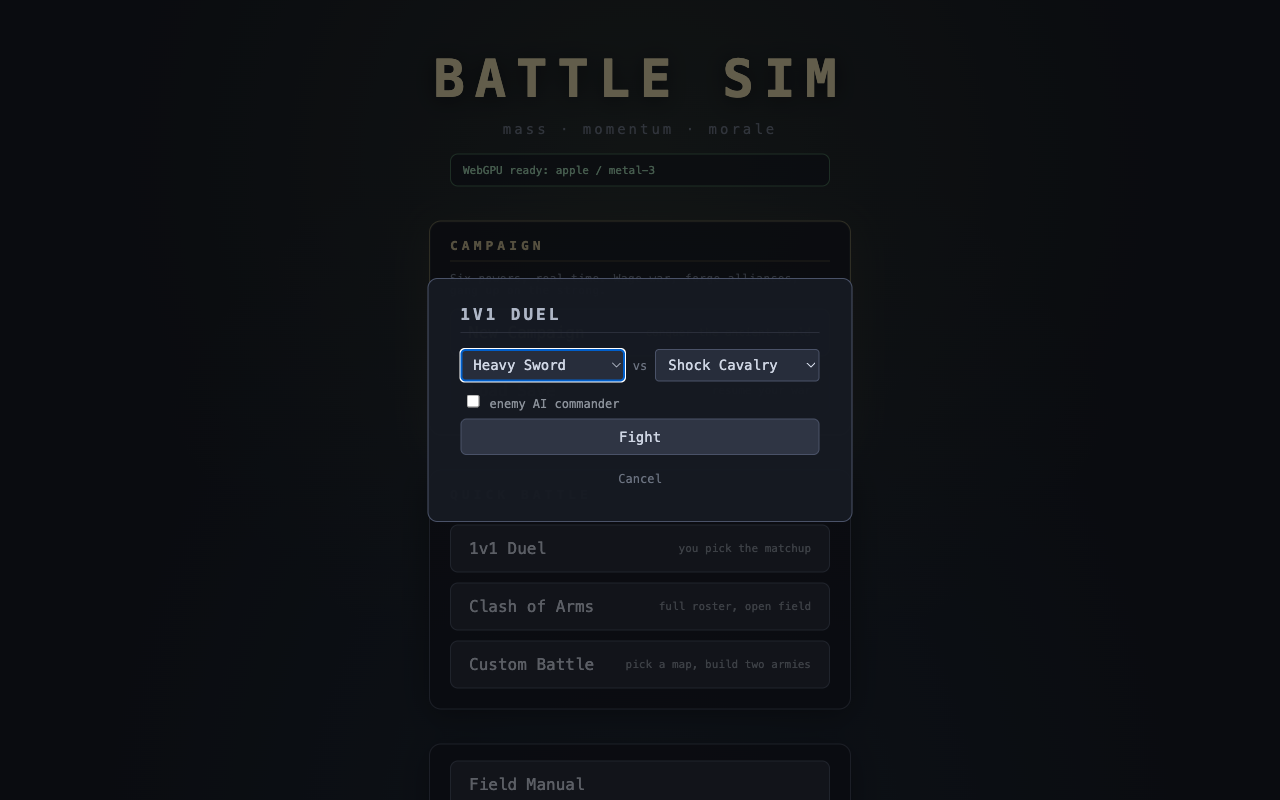
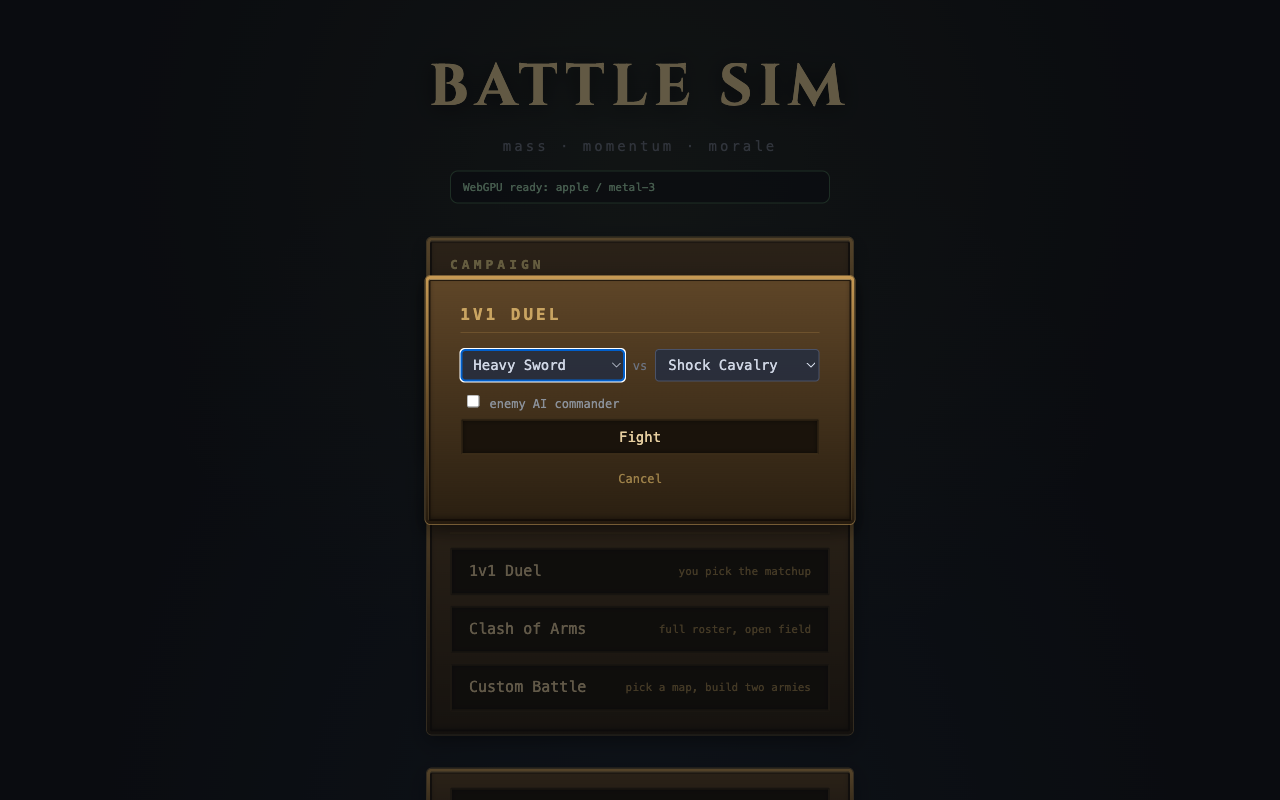
battle-ui: bronze the menu + modals (Cinzel title, bronze panels/buttons)
Rewrite the main menu and the dialog surfaces to the grand-strategy bronze look:
- #menu-ui: Cinzel engraved 'BATTLE SIM' title, bronze chassis panels, bronze
  well-buttons, brass section headers (no more slate rounded web cards / hover-lift).
- gameover / pausemenu / duel-modal / quick-battle-modal panels + buttons onto the
  shared bronze tokens.
Re-blessed menu-renderer-{ready,unsupported,duel-modal}. battle-ui S4 done; S5
(gameover/pause done, field manual + banner remain). Minor: native <select> focus
ring, the GPU-unavailable notice.

diff --git a/web/index.html b/web/index.html
@@ -241,8 +241,8 @@
       color: #c8cdd8; font: 14px ui-monospace, Menlo, monospace;
     }
     #menu-ui h1 {
-      margin: 0; font: bold 52px ui-monospace, Menlo, monospace; letter-spacing: 10px;
-      color: #e8d9a8; text-shadow: 0 3px 22px rgba(0,0,0,0.9);
+      margin: 0; font: 700 58px 'Cinzel', ui-serif, Georgia, serif; letter-spacing: 7px;
+      color: #e8cf96; text-shadow: 0 3px 22px rgba(0,0,0,0.9);
       animation: title-glow 5s ease-in-out infinite;
     }
     @keyframes title-glow {
@@ -260,32 +260,27 @@
     #menu-ui #menu-renderer-status.bad { border-color: #714447; color: #e2a4a0; }
     #menu-ui .menu-section {
       display: flex; flex-direction: column; gap: 10px; width: min(380px, 84vw);
-      background: rgba(12,14,19,0.82); border: 1px solid #3a3f4d; border-radius: 12px;
-      padding: 16px 20px 20px; box-shadow: 0 8px 30px rgba(0,0,0,0.55);
+      padding: 16px 20px 20px; border: 3px solid transparent; border-radius: 5px;
+      background: var(--bronze-fill) padding-box, var(--bronze-edge) border-box;
+      box-shadow: var(--bronze-frame);
     }
-    /* The campaign is the marquee mode — give it a warm accent. */
-    #menu-ui .menu-section.feature {
-      border-color: #6a6446;
-      box-shadow: 0 8px 34px rgba(60,52,28,0.4), inset 0 0 0 1px rgba(232,217,168,0.05);
-    }
-    #menu-ui .menu-section.feature h2 { color: #c9b88a; border-bottom-color: #45402c; }
-    #menu-ui .section-hint { margin: -4px 0 2px; color: #6b7280; font-size: 11px; letter-spacing: 0.5px; }
+    /* The campaign is the marquee mode — give it a brighter brass edge. */
+    #menu-ui .menu-section.feature { box-shadow: var(--bronze-frame), 0 0 0 1px rgba(232,200,120,0.3); }
+    #menu-ui .menu-section.feature h2 { color: #f0d98a; }
+    #menu-ui .section-hint { margin: -4px 0 2px; color: #9c8048; font-size: 11px; letter-spacing: 0.5px; }
     #menu-ui h2 {
       margin: 0 0 4px; font-size: 13px; letter-spacing: 4px; text-transform: uppercase;
-      color: #8a9099; border-bottom: 1px solid #2a2e3a; padding-bottom: 8px;
+      color: #c9a461; border-bottom: 1px solid rgba(150,114,62,0.4); padding-bottom: 8px;
     }
     #menu-ui button {
-      font: 16px ui-monospace, Menlo, monospace; color: #d8dde8; text-align: left;
-      background: rgba(34,38,48,0.9); border: 1px solid #444a5a;
-      border-radius: 8px; padding: 13px 18px; cursor: pointer;
-      transition: background 0.13s ease, border-color 0.13s ease, transform 0.08s ease;
+      font: 15px ui-monospace, Menlo, monospace; color: var(--bronze-ink); text-align: left;
+      background: var(--well-bg); border: 1px solid #3a2c18; border-radius: 2px;
+      padding: 13px 18px; cursor: pointer; box-shadow: var(--well-shadow);
+      transition: box-shadow 0.12s ease, color 0.12s ease;
     }
-    #menu-ui button:hover:not(:disabled) {
-      background: rgba(64,72,92,0.95); border-color: #6f7a96; transform: translateY(-1px);
-    }
-    #menu-ui button:active:not(:disabled) { transform: translateY(0); }
+    #menu-ui button:hover:not(:disabled) { color: var(--bronze-ink-bright); box-shadow: var(--well-hover); }
     #menu-ui button:disabled { opacity: 0.4; cursor: default; }
-    #menu-ui button small { color: #8a9099; float: right; font-size: 11px; line-height: 20px; }
+    #menu-ui button small { color: #9c8048; float: right; font-size: 11px; line-height: 20px; }
     #menu-ui .duel-row { display: flex; gap: 8px; align-items: center; margin-bottom: 8px; }
     #menu-ui .duel-vs { color: #6b7280; font-size: 12px; }
     #menu-ui select {
@@ -305,28 +300,30 @@
     #gameover p { margin: 0 0 18px; color: #8a9099; font-size: 13px; }
     #gameover button {
       display: block; width: 100%; margin: 6px 0; padding: 9px 14px; cursor: pointer;
-      background: rgba(48,54,70,0.95); color: #cfd6e4; border: 1px solid #4a5268;
-      border-radius: 6px; font: inherit;
+      background: var(--well-bg); color: var(--bronze-ink); border: 1px solid #3a2c18;
+      border-radius: 2px; font: inherit; box-shadow: var(--well-shadow);
     }
-    #gameover button:hover { background: rgba(64,72,92,0.95); border-color: #6f7a96; }
-    #gameover .watch { background: none; border: none; color: #6b7280; font-size: 12px; margin-top: 10px; }
+    #gameover button:hover { color: var(--bronze-ink-bright); box-shadow: var(--well-hover); }
+    #gameover .watch { background: none; border: none; box-shadow: none; color: #9c8048; font-size: 12px; margin-top: 10px; }
     #duel-modal, #pausemenu {
       display: none; position: fixed; inset: 0; z-index: 40;
       background: rgba(8,10,14,0.6); align-items: center; justify-content: center;
       font: 14px ui-monospace, Menlo, monospace;
     }
     #duel-modal .panel, #pausemenu .panel {
-      background: rgba(22,26,34,0.97); border: 1px solid #4a5268; border-radius: 10px;
-      padding: 26px 32px; min-width: 320px; color: #c8cdd8;
+      padding: 26px 32px; min-width: 320px; color: #ecd9b0;
+      border: 3px solid transparent; border-radius: 5px;
+      background: var(--bronze-fill) padding-box, var(--bronze-edge) border-box;
+      box-shadow: var(--bronze-frame);
     }
-    #duel-modal h2, #pausemenu h2 { margin: 0 0 16px; font-size: 16px; letter-spacing: 3px; color: #aeb6c6; }
+    #duel-modal h2, #pausemenu h2 { margin: 0 0 16px; font-size: 16px; letter-spacing: 3px; color: #c9a461; }
     #duel-modal button, #pausemenu button {
       display: block; width: 100%; margin: 8px 0 0; padding: 9px 14px; cursor: pointer;
-      background: rgba(48,54,70,0.95); color: #cfd6e4; border: 1px solid #4a5268;
-      border-radius: 6px; font: inherit; text-align: center;
+      background: var(--well-bg); color: var(--bronze-ink); border: 1px solid #3a2c18;
+      border-radius: 2px; font: inherit; text-align: center; box-shadow: var(--well-shadow);
     }
-    #duel-modal button:hover, #pausemenu button:hover { background: rgba(64,72,92,0.95); border-color: #6f7a96; }
-    #duel-modal .cancel, #pausemenu .watch { background: none; border: none; color: #6b7280; font-size: 12px; }
+    #duel-modal button:hover, #pausemenu button:hover { color: var(--bronze-ink-bright); box-shadow: var(--well-hover); }
+    #duel-modal .cancel, #pausemenu .watch { background: none; border: none; box-shadow: none; color: #9c8048; font-size: 12px; }
     #duel-modal .duel-row { display: flex; gap: 8px; align-items: center; margin-bottom: 10px; }
     #duel-modal .duel-vs { color: #6b7280; font-size: 12px; }
     #duel-modal select {
@@ -341,26 +338,28 @@
     }
     #quick-battle-modal.open { display: flex; }
     .quick-battle-panel {
-      background: rgba(22,26,34,0.97); border: 1px solid #4a5268; border-radius: 10px;
-      padding: 22px 26px; color: #c8cdd8; width: min(900px, 94vw); max-height: 90vh; overflow: auto;
+      padding: 22px 26px; color: #ecd9b0; width: min(900px, 94vw); max-height: 90vh; overflow: auto;
+      border: 3px solid transparent; border-radius: 5px;
+      background: var(--bronze-fill) padding-box, var(--bronze-edge) border-box;
+      box-shadow: var(--bronze-frame);
     }
-    .quick-battle-panel h2 { margin: 0 0 14px; font-size: 16px; letter-spacing: 3px; color: #aeb6c6; }
+    .quick-battle-panel h2 { margin: 0 0 14px; font-size: 16px; letter-spacing: 3px; color: #c9a461; }
     .qb-maps { display: flex; gap: 8px; margin-bottom: 14px; }
-    .qb-map { flex: 1; text-align: left; padding: 8px 10px; background: rgba(48,54,70,0.9); border: 1px solid #4a5268; border-radius: 6px; color: #cfd6e4; cursor: pointer; font: inherit; }
-    .qb-map.selected { border-color: #c8a24a; background: rgba(70,62,40,0.9); }
+    .qb-map { flex: 1; text-align: left; padding: 8px 10px; background: var(--well-bg); border: 1px solid #3a2c18; border-radius: 2px; color: var(--bronze-ink); cursor: pointer; font: inherit; box-shadow: var(--well-shadow); }
+    .qb-map.selected { border-color: #f0d98a; box-shadow: inset 0 0 0 1px #f0d98a, 0 0 7px rgba(240,212,122,0.5); }
     .qb-map strong { display: block; }
-    .qb-map small { color: #8a9099; font-size: 11px; }
+    .qb-map small { color: #9c8048; font-size: 11px; }
     .qb-armies { display: flex; gap: 16px; }
     .qb-army { flex: 1; min-width: 0; }
-    .qb-army h3 { margin: 0 0 8px; font-size: 13px; color: #aeb6c6; }
+    .qb-army h3 { margin: 0 0 8px; font-size: 13px; color: #c9a461; }
     .qb-templates { display: flex; flex-wrap: wrap; gap: 4px; margin-bottom: 8px; }
-    .qb-template { padding: 4px 8px; background: rgba(48,54,70,0.9); border: 1px solid #4a5268; border-radius: 4px; color: #cfd6e4; cursor: pointer; font: inherit; font-size: 11px; }
+    .qb-template { padding: 4px 8px; background: var(--well-bg); border: 1px solid #3a2c18; border-radius: 2px; color: var(--bronze-ink); cursor: pointer; font: inherit; font-size: 11px; box-shadow: var(--well-shadow); }
     .qb-rows { max-height: 40vh; overflow: auto; }
     .qb-row { display: grid; grid-template-columns: 1fr auto auto auto; gap: 6px; align-items: center; padding: 2px 0; }
     .qb-label { font-size: 12px; }
-    .qb-step { width: 24px; padding: 2px 0; background: rgba(48,54,70,0.9); border: 1px solid #4a5268; border-radius: 4px; color: #cfd6e4; cursor: pointer; }
+    .qb-step { width: 24px; padding: 2px 0; background: var(--well-bg); border: 1px solid #3a2c18; border-radius: 2px; color: var(--bronze-ink); cursor: pointer; box-shadow: var(--well-shadow); }
     .qb-count { min-width: 18px; text-align: center; }
-    .qb-footer { margin-top: 8px; padding-top: 6px; border-top: 1px solid #3a4252; font-size: 12px; color: #9aa0aa; }
+    .qb-footer { margin-top: 8px; padding-top: 6px; border-top: 1px solid rgba(150,114,62,0.4); font-size: 12px; color: #c9a461; }
     .qb-footer.over { color: #e06a5a; }
     .qb-footer.empty { color: #c8a24a; }
     .qb-actions { display: flex; gap: 8px; margin-top: 14px; }

diff --git a/specs/battle-ui/README.md b/specs/battle-ui/README.md
@@ -24,8 +24,11 @@ gated. Update this section at the end of each pass.
   inline values (and the lab copy). (`slices/01-design-system.md`)
 - [x] S2 — top buttons (`#buttons`) + unit-info panel (`#hud`) → bronze (live).
 - [x] S3 — minimap housing (`#minimap`) → bronze beveled frame (live).
-- [ ] S4 — main menu + quick-battle / duel modals (`slices/04-menu.md`)
-- [ ] S5 — in-battle modals: gameover, pause menu, field manual, banner (`slices/05-modals.md`)
+- [x] S4 — main menu + quick-battle / duel modals → bronze (Cinzel title, bronze
+  panels + well-buttons, brass headers). Minor: native `<select>` keeps its OS
+  focus ring; `#menu-renderer-status` notice still webapp-ish.
+- [~] S5 — in-battle modals: **gameover + pause menu done** (bronze, via the shared
+  modal styles); **field manual (`#manual`) + banner (`#banner`) remain**.
 - [x] _done_ — card bar + order toolbar (in `specs/card-bar/`), the look's reference impl
 
 ## The aesthetic contract (hard rule — same as card-bar)
